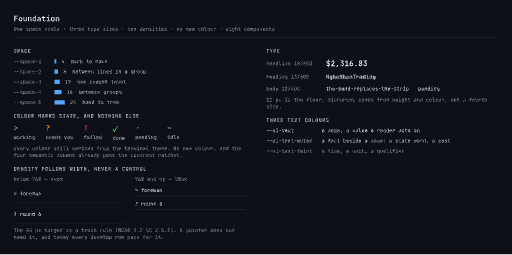
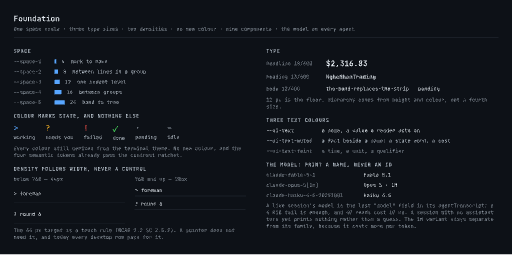
Put the model on every agent, in the design and in the plan
The human asked for the LLM model on a session or agent's info. Both
halves of it come from data already on disk, measured before planning.

A live session's model is the last `"model"` field in its
`agentTranscript`, which the session payload already carries: a 4 KiB
tail is enough, and 40 reads cost 10 ms in total. The spend by model is
the `modelUsage` map on each transcript's final `cost-state` line, which
`TranscriptBill` already reads and `UsageRollup` throws away.

Over the last 30 days seven ids appear, led by `claude-fable-5-1` at
$1,283.48 and `claude-opus-5[1m]` at $404.43. The 1M variant stays
separate from its family, because it costs more per token, which is the
point of showing the split.

The page prints a name, never an id, by a five-step rule with a test for
each step. The per-model quota row stays excluded: rate limits are not
per model and no local source carries one.

Capability 6, `every-agent-says-its-model`.

Claude-Session: https://claude.ai/code/session_012ztzwyRLLwgnU2inMa4JWu

Changed region(s): [[0.5, 0.6314, 0.9688, 0.9059], [0.4375, 0.1098, 0.6875, 0.1373]]

diff --git a/docs/goals/agent-dashboard/corpus/design-foundation.md b/docs/goals/agent-dashboard/corpus/design-foundation.md
@@ -8,9 +8,9 @@ number in them is read from the live daemon on 2026-09-17:
 
 | Frame | What it shows |
 |---|---|
-| `Dashboard 1200` | the whole page at desktop width, 28 px lines |
+| `Dashboard 1200` | the whole page at desktop width, 28 px lines, the by-model split |
 | `Dashboard 390` | the same page on a phone, 44 px lines, facts dropped |
-| `Foundation` | the space scale, the type scale, the state marks, the two densities |
+| `Foundation` | the space scale, the type scale, the state marks, the two densities, the model naming rule |
 | `Anatomy of a line` | the line's six cells and the order its facts drop in |
 
 Exports of the four frames sit beside this file as `01-*.png`. A written
@@ -67,6 +67,10 @@ WORKSPACE                         $1,249.23  98%   2 agents
 | Goal | `GET /api/projects/<id>/knowledge` | its `slug` |
 | Task | the goal's `STATE.md` sections, plus a live `task:` label | its slug |
 
+An agent is not a fifth level. It is a session, and a session sits under
+the task it runs or under its project. Its model is one of its facts;
+see "The model" below.
+
 A workspace that holds one project shows no heading of its own; the
 project stands at the top level. That rule is already shipped and stays.
 
@@ -78,6 +82,55 @@ A task's state comes from one place each:
 | pending | the slug appears in `## Queue` |
 | done | the slug appears in `## Done` |
 | failed | the slug appears in `## Failures` |
+
+## The model
+
+An agent's model is a fact of its line, and the spend splits by model in
+the meters. Both come from data that is already on disk.
+
+**A live session's model** comes from the last `"model"` field in its
+`agentTranscript`, which the session payload already carries. Measured on
+2026-09-17 over the 40 most recent transcripts: a 4 KiB tail read is
+enough, and 40 reads of a 64 KiB tail cost 10 ms in total, 0.25 ms each.
+37 of the 40 yielded a model; the other three had no assistant turn yet,
+and a session with no model prints nothing rather than a guess.
+
+**The spend by model** comes from each transcript's final `cost-state`
+line, whose `modelUsage` map already carries `costUSD`, the three input
+token kinds, and `outputTokens` per model. `TranscriptBill` reads that
+map today and `UsageRollup` throws it away. Keeping it is the only
+change the data needs.
+
+### Naming
+
+The page prints a name, not an id. The rule, in order:
+
+1. Drop the `claude-` prefix.
+2. Move a `[1m]` suffix to ` · 1M`, and keep that variant separate from
+   its family. The 1M context costs more per token, which is the point of
+   showing the split at all.
+3. Drop a trailing eight-digit date.
+4. Title-case the family and join the version digits with a dot.
+5. When a step does not apply, print the id unchanged. Never guess.
+
+| Id | Name |
+|---|---|
+| `claude-fable-5-1` | Fable 5.1 |
+| `claude-opus-5[1m]` | Opus 5 · 1M |
+| `claude-haiku-4-5-20251001` | Haiku 4.5 |
+
+### Where it shows
+
+- **On a session line**, in the facts, before the time. It drops before
+  the state word and after the cost, as every fact does.
+- **In the meters**, as one row per model under the day series: the name,
+  the spend, the cache share. Measured over the last 30 days on
+  2026-09-17, seven ids appear and this is what they cost.
+
+**Not the quota.** `goal.md` of `workspace-ledger` excluded a per-model
+quota row because the rate limits are not per model and no local source
+carries one. That exclusion stands. Cost per model is a different fact
+with a real source, and it is in.
 
 ## Tokens
 
@@ -169,7 +222,7 @@ Archived sessions and done goals, closed.
 
 ## Components
 
-Eight. Nothing else is added without a change to this file. Every class
+Nine. Nothing else is added without a change to this file. Every class
 name carries its component's prefix, which replaces the 100 ad-hoc names
 the page has today with about 30.
 
@@ -180,6 +233,7 @@ the page has today with about 30.
 | Series | `series-` | one bar a day, with an axis and a headline |
 | Tree | `tree-` | the nested disclosure holding every level |
 | Line | `line-` | one row: mark, name, facts, time, actions |
+| Split | `split-` | one row per model: name, spend, cache share |
 | Fold | `fold-` | a closed group with a count |
 | Tag | `tag-` | a bracketed word: `[new]`, `[done]`, `[PR #118]` |
 | Note | `note-` | a paragraph of explanation under a block |
@@ -196,9 +250,9 @@ Every level of the tree is one `line`. Its cells, in order:
 - **mark**: one character, coloured by state, or blank.
 - **indent**: `--space-3` per level below the top.
 - **name**: the only cell that grows, and the only one that truncates.
-- **facts**: state word, cost, cache share, round counter. Each drops
-  from the right as the line narrows, in that order, so the state word
-  is the last fact to go.
+- **facts**: state word, cost, model, cache share, round counter. Each
+  drops from the right as the line narrows, in that order, so the state
+  word is the last fact to go and the model goes before the cost.
 - **time**: relative, always the same width.
 - **actions**: `[new]`, the `…` menu, or nothing.
 

diff --git a/docs/goals/agent-dashboard/plan.md b/docs/goals/agent-dashboard/plan.md
@@ -48,7 +48,7 @@ content, so a reader never learns where to look.
 
 ## Capability order
 
-Five capabilities. Each ships as one PR. Each names the check that
+Six capabilities. Each ships as one PR. Each names the check that
 proves it.
 
 | # | Capability | Proof |
@@ -59,10 +59,14 @@ proves it.
 | 4 | **The band replaces the strip.** One fixed-height row of four counts: agents working, items needing a person, spend over the range, quota used. The "need you" count links to the first marked line. The strip's items become a mark on the line they belong to, and the strip is gone. | A vitest over the band model: the four counts, the empty fleet, and the case where nothing needs a person. A vitest asserting no session appears twice on the page. The band's height is the same in a fixture with 0, 4 and 20 items needing a person. Screenshots at both widths. |
 | 5 | **Every line is one line.** The tree's line component carries mark, indent, name, facts, time and actions, and its facts drop from the right in a fixed order as the line narrows. Nothing wraps at 390 px. | A vitest over the line model for each level and each drop step. A measurement in the live check: every line's `scrollHeight` equals one `--line-h` at 390 px. The page at 390 px is under 1200 px tall with the live tree loaded. |
 
+| 6 | **Every agent says its model.** A session's model comes from the last `"model"` field in its `agentTranscript` and rides on the session payload. `UsageRollup` keeps the `modelUsage` map that `TranscriptBill` already reads, and `GET /api/usage/daily` answers a per-model split for the range. The line carries the model as a fact; the meters carry one `split` row per model with its spend and cache share. | Swift tests over the reader: a transcript whose last assistant line names a model, one with no assistant turn, an unreadable path, and the five naming cases from `design-foundation.md` including `[1m]` and a dated id. A rollup test that a day's per-model split sums to that day's total. A vitest over the split model including the empty case. A screenshot against the real tree showing the model on a live agent's line. |
+
 Capability 1 is independent and goes first, because it removes code the
 later capabilities would otherwise have to carry. Capability 2 goes
 second, because every later capability writes CSS and should write it
-against the scale. Capability 3 is independent of 4. Capability 5 needs
-3 and 4, because it shapes the lines they create. The human sees the
+against the scale. Capability 3 is independent of 4. Capability 6 is independent of all of
+them and may run beside any; it is last only because it is the smallest.
+Capability 5 needs 3, 4 and 6, because it shapes the lines and the facts
+they create. The human sees the
 images after 2 and after 5 before either merges, because both change how
 the page looks.

diff --git a/docs/goals/agent-dashboard/goal.md b/docs/goals/agent-dashboard/goal.md
@@ -7,8 +7,8 @@ one screen: how many agents are working, how many wait for them, what
 the work is costing, and how much quota is left. Below that, the same
 fleet in four levels — workspace, project, goal, task — one line each,
 so the reader can follow a workspace down to the task an agent is
-running right now. The page presents and monitors. It accepts no typed
-work.
+running right now, and read which model that agent is running on. The
+page presents and monitors. It accepts no typed work.
 
 The design language is the one in `corpus/design-foundation.md`:
 minimal, monospace, hairline, three type sizes, one space scale, eight
@@ -23,8 +23,13 @@ components, colour on the state mark alone.
   pass the contrast ratchet. A round that wants a fifth stops and says
   so.
 - **No new data source.** Every number comes from a route that exists,
-  or from a `STATE.md` section that every goal already writes. The task
-  level parses what is written; it does not ask a human to write more.
+  from a `STATE.md` section that every goal already writes, or from a
+  transcript field Claude Code already writes. The task level and the
+  model both parse what is there; neither asks a human to write more.
+- **No per-model quota row.** `workspace-ledger` excluded it because the
+  rate limits are not per model and no local source carries one. That
+  exclusion stands. Cost per model is a different fact with a real
+  source, and it is in.
 - **No change to the terminal pane.** `/` is not this goal's surface.
 - **No loss of an accessibility rule an earlier round paid for.** The
   list is in `design-foundation.md` under "What the page keeps".
@@ -33,7 +38,7 @@ components, colour on the state mark alone.
 
 ## Completion condition
 
-All seven hold on a build from `main`:
+All eight hold on a build from `main`:
 
 1. The top band is one fixed-height row of four counts — agents working,
    items needing a person, spend over the chosen range, quota used — and
@@ -50,7 +55,10 @@ All seven hold on a build from `main`:
 6. The page at 390 px is under 1200 px tall with the live tree loaded,
    and the first screen holds the band, the meters, and the first
    workspace.
-7. The floor is green and `main` is green after the merge.
+7. A session running an agent shows its model as a fact on its line, and
+   the meters carry one row per model with its spend and its cache
+   share. A model with no reading prints nothing rather than a guess.
+8. The floor is green and `main` is green after the merge.
 
 The floor (`swift test`, the web suite with the contrast ratchet,
 `KittermBench interactive-echo` under 50 ms p95, and the Linux build) is

diff --git a/docs/goals/agent-dashboard/STATE.md b/docs/goals/agent-dashboard/STATE.md
@@ -12,7 +12,9 @@
 2. `the-foundation-in-the-stylesheet` (capability 2)
 3. `a-task-is-the-fourth-level` (capability 3)
 4. `the-band-replaces-the-strip` (capability 4)
-5. `every-line-is-one-line` (capability 5)
+5. `every-agent-says-its-model` (capability 6)
+6. `every-line-is-one-line` (capability 5, last: it shapes the lines the
+   others create)
 
 ## Failures
 
@@ -53,6 +55,18 @@ height, so a reader never learns where to look.
 The Pencil design tool was not reachable — its MCP server reported
 `transport not connected to app` on both calls — so the foundation is a
 written contract plus a visual specimen page rather than a `.pen` file.
+
+## Direction, continued
+
+2026-09-17: the human asked for the LLM model on a session or agent's
+info. The foreman measured the two sources before planning it. A live
+session's model is the last `"model"` field in its `agentTranscript`,
+which the session payload already carries: a 4 KiB tail is enough, and
+40 reads cost 10 ms in total. The spend by model is the `modelUsage` map
+on each transcript's final `cost-state` line, which `TranscriptBill`
+already reads and `UsageRollup` throws away. Over the last 30 days seven
+ids appear, led by `claude-fable-5-1` at $1,283.48 and
+`claude-opus-5[1m]` at $404.43. It is capability 6.
 
 ## Next action
 
